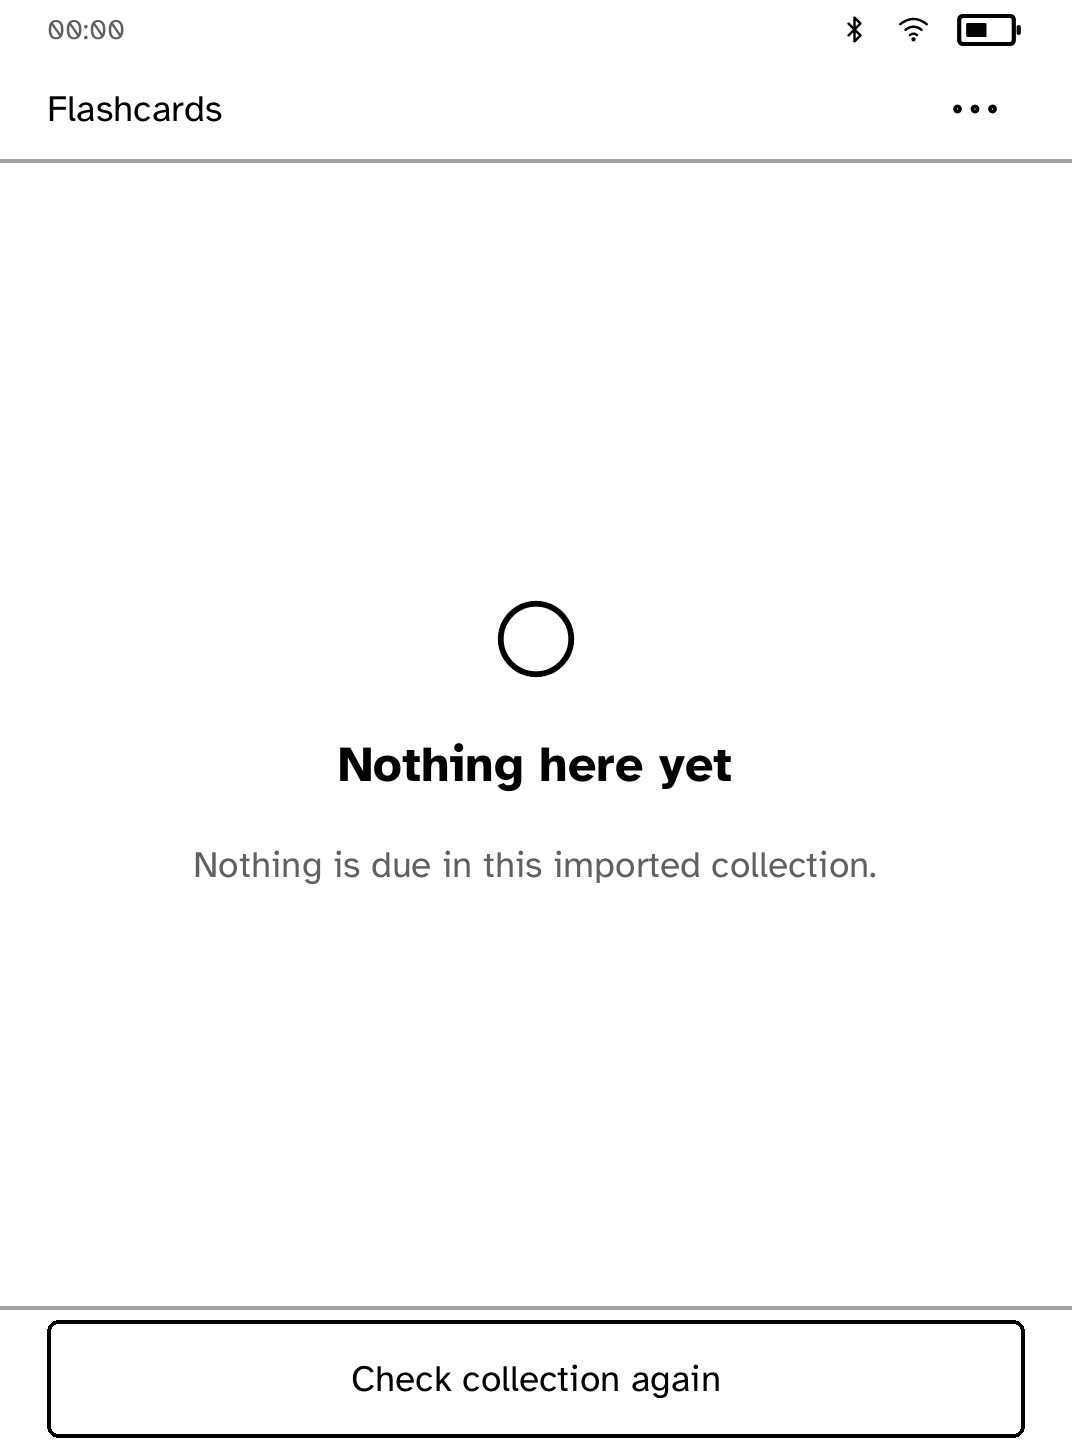
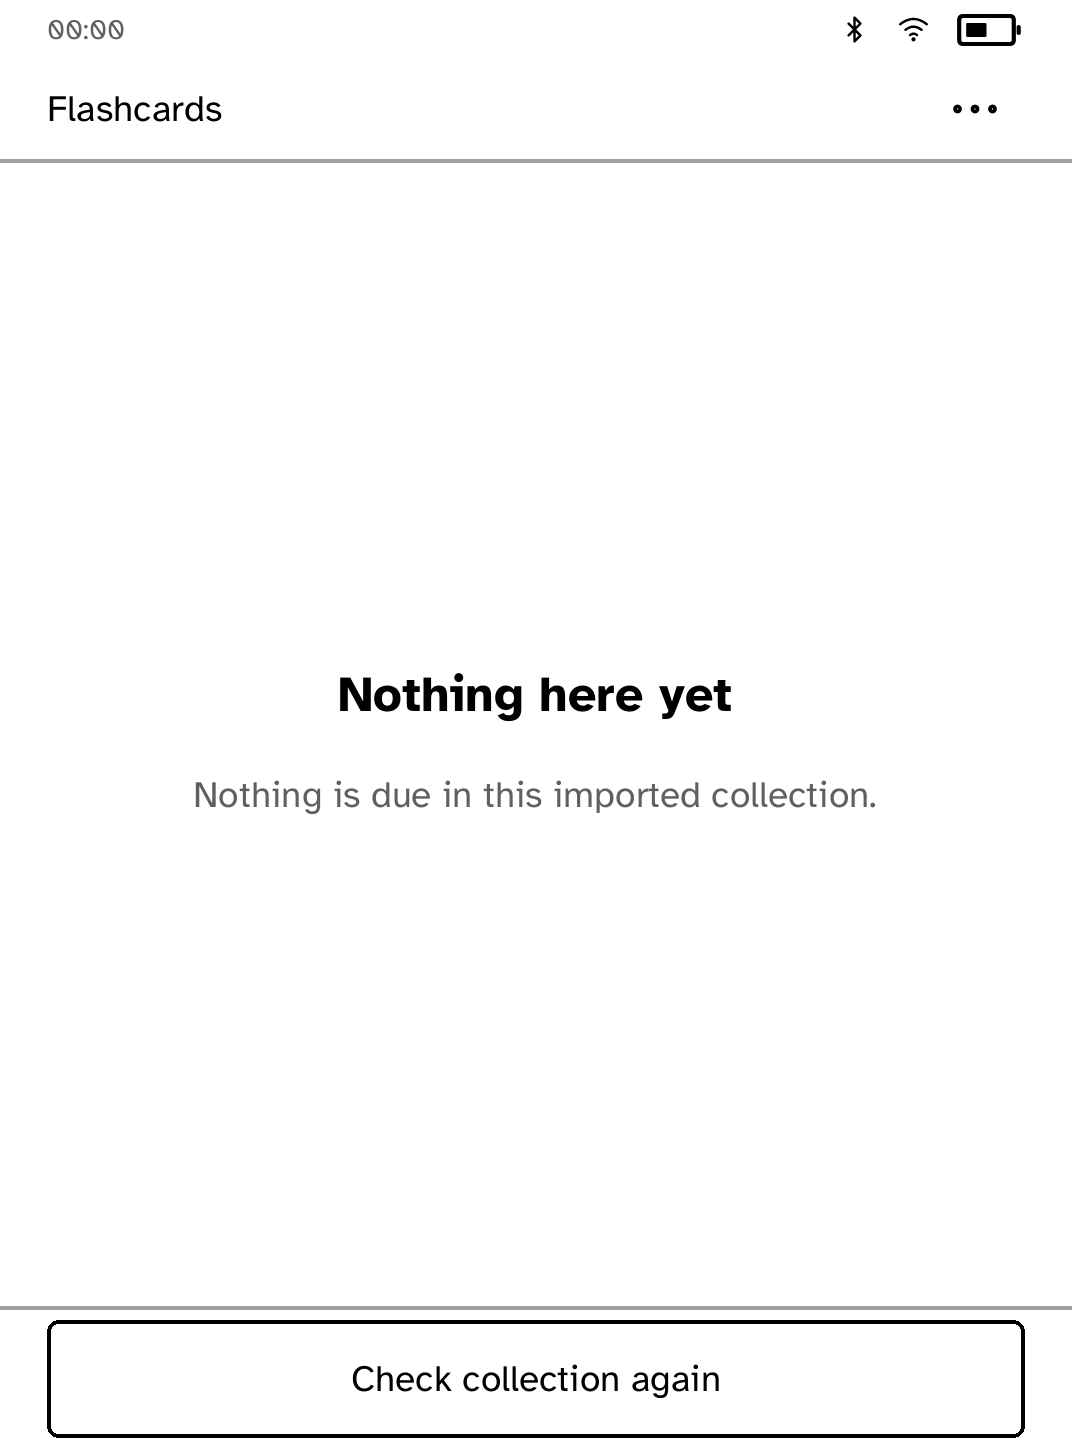
flashcards: full reveal/grade/restart journey and a truthful all-done state (CARDS-05)
The committed route now grades all three fixture cards (Good, Hard,
Easy), reaches Review complete, and returns to the picker. Finishing
every due card used to land on the generic 'Nothing here yet' empty
state; the picker now says 'All done for now' and that grades stay on
this reader, with Check collection again as the restart.

Changed region(s): [[0.1847, 0.404, 0.8004, 0.5594], [0.1847, 0.5905, 0.8004, 0.6215]]

diff --git a/apps/flashcards/src/main.rs b/apps/flashcards/src/main.rs
@@ -315,13 +315,24 @@ impl Flashcards {
             ],
         );
         if total == 0 {
-            let message = if imported_total == 0 {
-                "Nothing is due in this imported collection."
+            let (title, message) = if imported_total == 0 {
+                (
+                    "Nothing here yet",
+                    "Nothing is due in this imported collection.",
+                )
             } else {
-                "All due cards in this collection were recorded locally."
+                (
+                    "All done for now",
+                    "Every due card in this collection was recorded locally. Grades stay on this reader.",
+                )
+            };
+            let glyph = if imported_total == 0 {
+                None
+            } else {
+                Some(Glyph::Check)
             };
             return screen
-                .empty_state(message)
+                .splash(glyph, title, message)
                 .bottom_action("retry", "Check collection again")
                 .build();
         }
